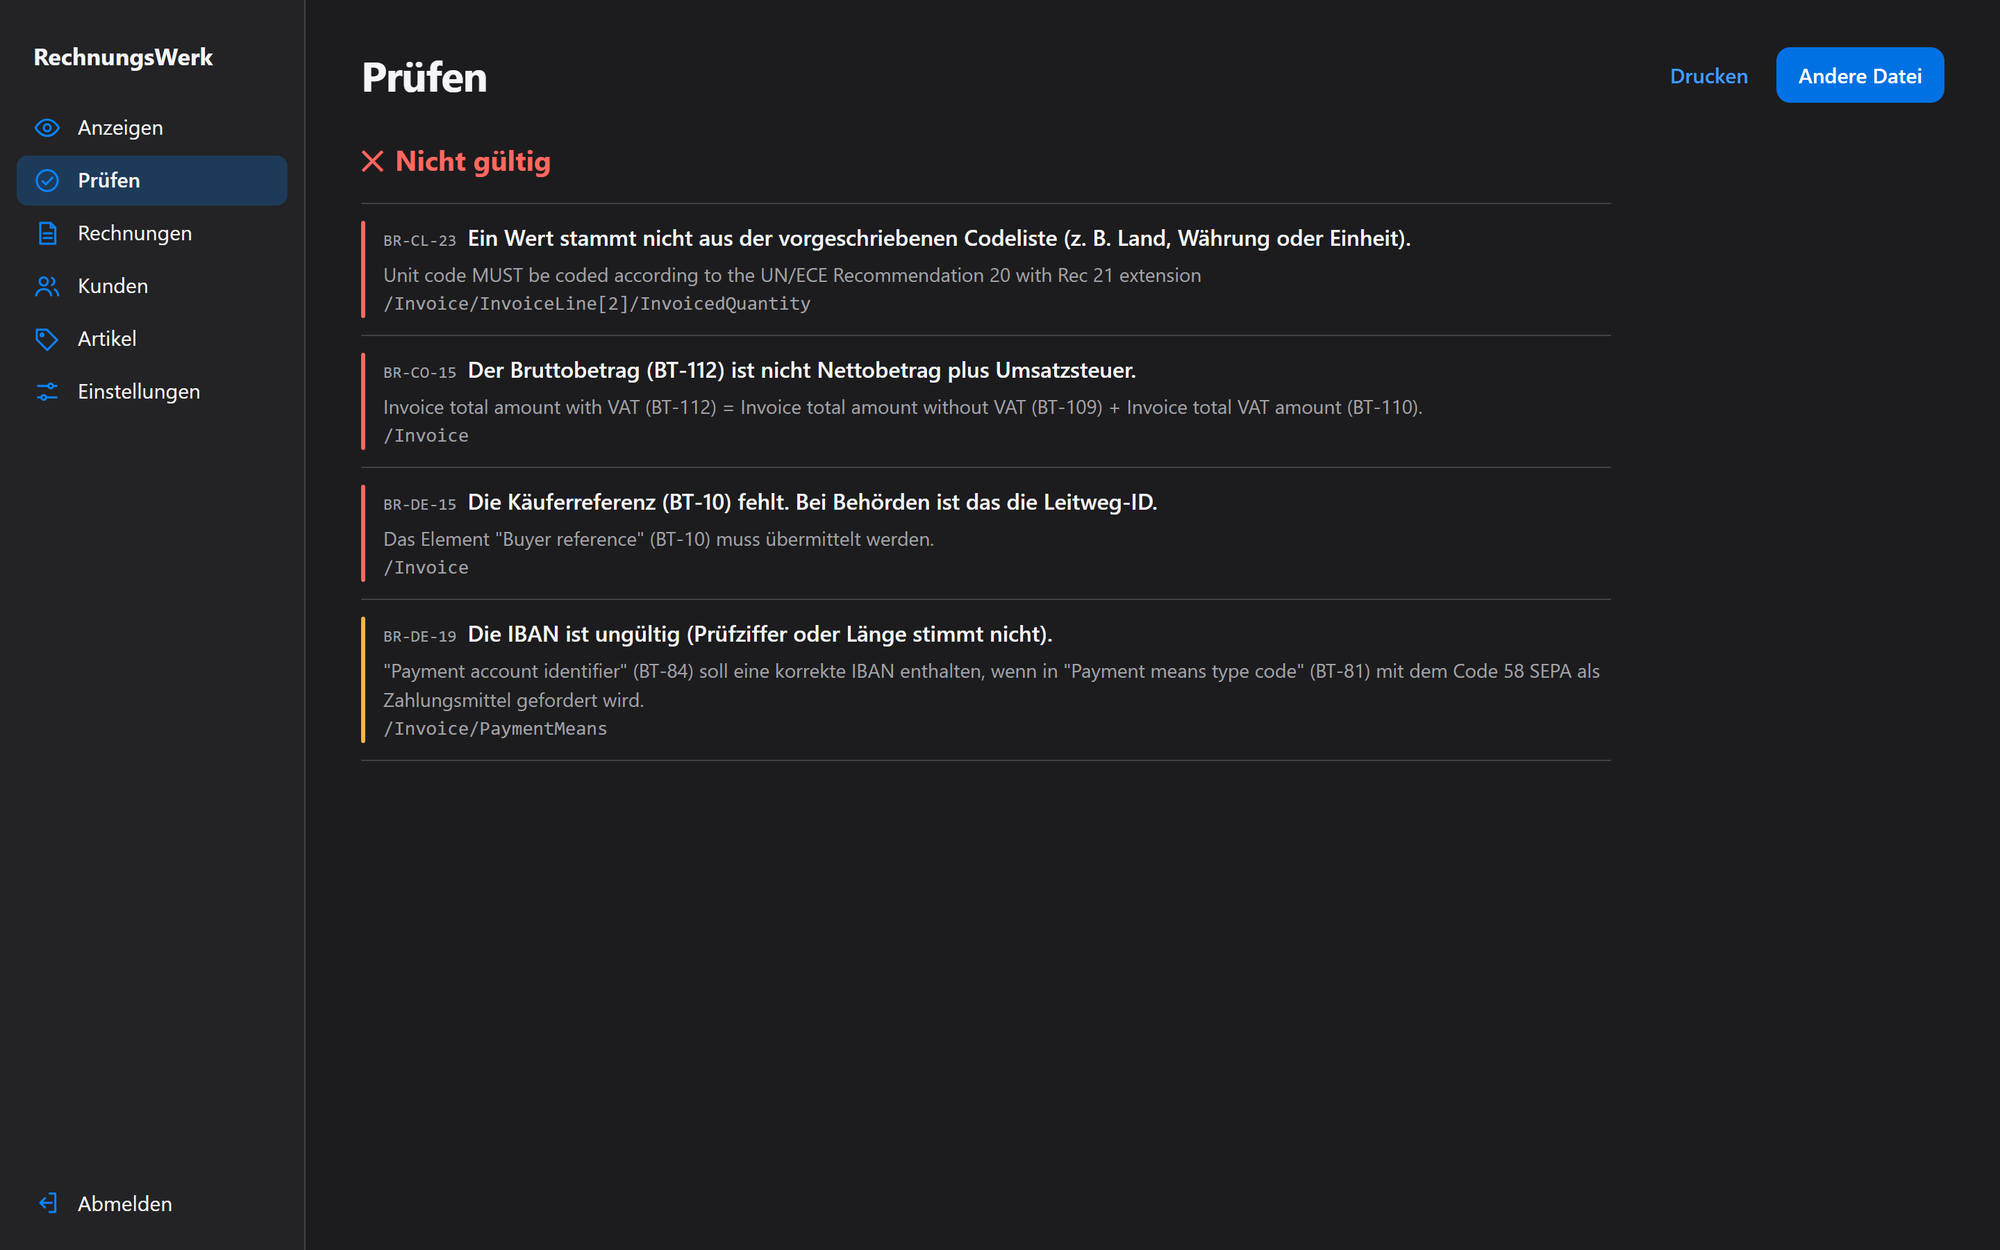
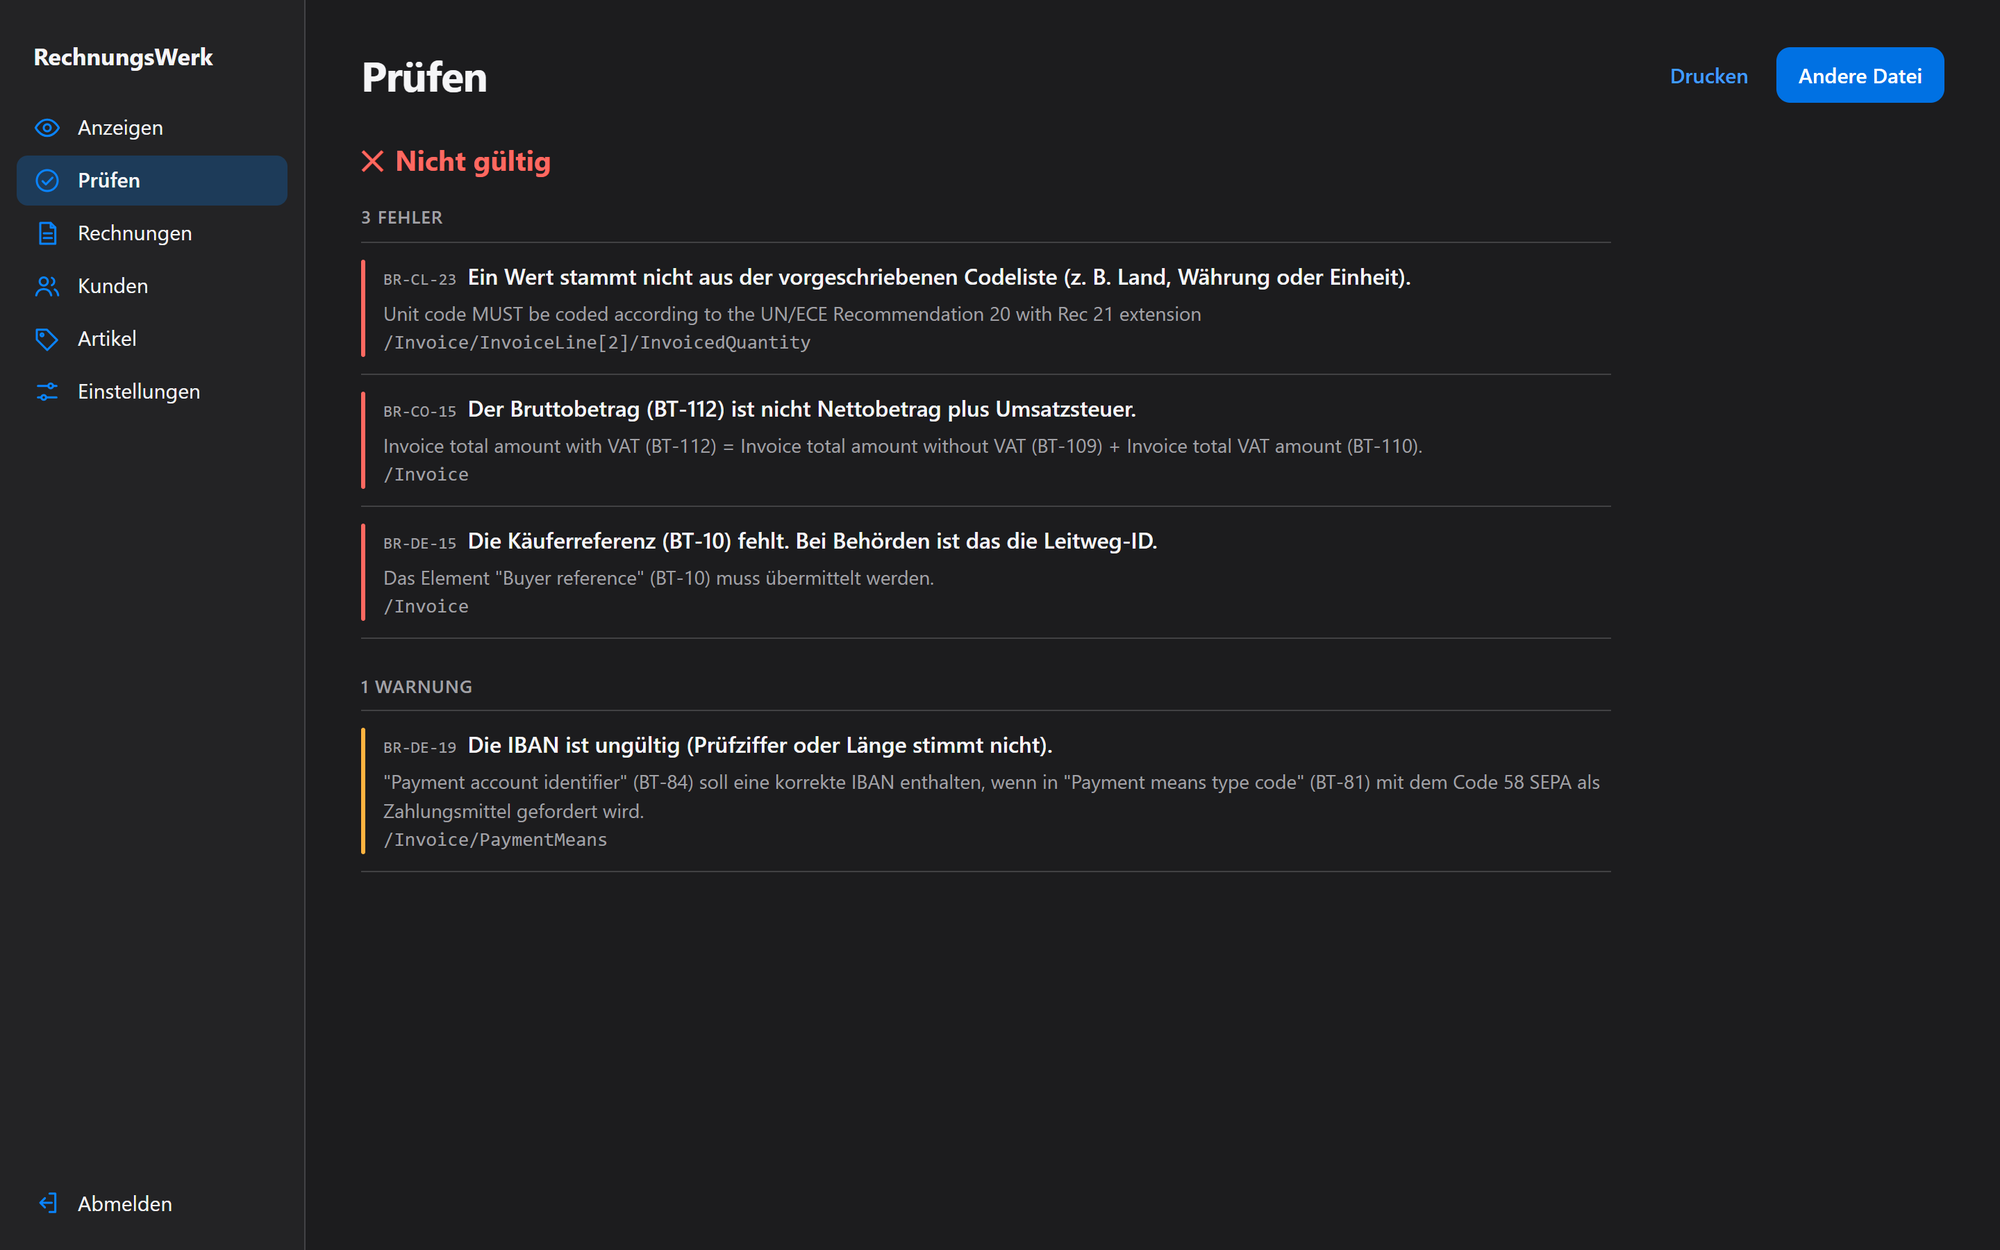
Group validation findings by severity
Errors, warnings and hints in the validation report were told apart
only by the colour of their bar. The report now lists them in groups
headed "3 Fehler", "1 Warnung" or "2 Hinweise", so the severity can
also be read as text. On the invoice page the group headings sit one
level below the format heading. The screenshots of the report are
updated.

Changed region(s): [[0.186, 0.156, 0.806, 0.6864], [0.682, 0.624, 0.775, 0.6552]]

diff --git a/src/RechnungsWerk.Web/wwwroot/app.css b/src/RechnungsWerk.Web/wwwroot/app.css
@@ -907,7 +907,8 @@ input[type="radio"] {
 }
 
 .party h3,
-.invoice-section h3 {
+.invoice-section h3,
+.findings-title {
     margin-bottom: var(--space-2);
     font-size: var(--text-sm);
     font-weight: 600;
@@ -1313,6 +1314,10 @@ input[type="radio"] {
     .finding,
     .party {
         break-inside: avoid;
+    }
+
+    .findings-title {
+        break-after: avoid;
     }
 
     a {

diff --git a/tests/RechnungsWerk.Tests/Web/FindingGroupTests.cs b/tests/RechnungsWerk.Tests/Web/FindingGroupTests.cs
@@ -1,0 +1,37 @@
+using RechnungsWerk.Core.Validation;
+using RechnungsWerk.Web.Infrastructure;
+
+namespace RechnungsWerk.Tests.Web;
+
+public sealed class FindingGroupTests
+{
+    [Theory]
+    [InlineData(ValidationLevel.Error, 1, "1 Fehler")]
+    [InlineData(ValidationLevel.Error, 3, "3 Fehler")]
+    [InlineData(ValidationLevel.Warning, 1, "1 Warnung")]
+    [InlineData(ValidationLevel.Warning, 2, "2 Warnungen")]
+    [InlineData(ValidationLevel.Information, 1, "1 Hinweis")]
+    [InlineData(ValidationLevel.Information, 4, "4 Hinweise")]
+    public void Title_names_level_and_count(ValidationLevel level, int count, string expected)
+    {
+        Assert.Equal(expected, FindingGroup.TitleFor(level, count));
+    }
+
+    [Fact]
+    public void Groups_list_errors_first_then_warnings_then_hints()
+    {
+        static ValidationMessage Message(ValidationLevel level, string rule) => new(level, rule, "", null, null, "");
+        var report = new ValidationReport
+        {
+            IsAcceptable = false,
+            Messages = [Message(ValidationLevel.Warning, "W1"), Message(ValidationLevel.Information, "I1"), Message(ValidationLevel.Error, "E1"),
+                Message(ValidationLevel.Warning, "W2")],
+        };
+
+        var groups = FindingGroup.Of(report);
+
+        Assert.Equal([ValidationLevel.Error, ValidationLevel.Warning, ValidationLevel.Information], groups.Select(g => g.Level));
+        Assert.Equal(["W1", "W2"], groups[1].Messages.Select(m => m.RuleId));
+        Assert.Equal("2 Warnungen", groups[1].Title);
+    }
+}

diff --git a/src/RechnungsWerk.Web/Infrastructure/FindingGroup.cs b/src/RechnungsWerk.Web/Infrastructure/FindingGroup.cs
@@ -1,0 +1,21 @@
+using RechnungsWerk.Core.Validation;
+
+namespace RechnungsWerk.Web.Infrastructure;
+
+/// <summary>Funde eines Prüfberichts mit derselben Schwere – im Bericht unter einer Überschrift wie „3 Fehler“.</summary>
+public sealed record FindingGroup(ValidationLevel Level, IReadOnlyList<ValidationMessage> Messages)
+{
+    /// <summary>Die Schwere steht im Text und nicht nur in der Farbe des Randes.</summary>
+    public string Title => TitleFor(Level, Messages.Count);
+
+    /// <summary>Erst Fehler, dann Warnungen, dann Hinweise; leere Gruppen gibt es nicht.</summary>
+    public static IReadOnlyList<FindingGroup> Of(ValidationReport report) =>
+        report.Messages.GroupBy(m => m.Level).OrderBy(g => g.Key).Select(g => new FindingGroup(g.Key, g.ToList())).ToList();
+
+    public static string TitleFor(ValidationLevel level, int count) => level switch
+    {
+        ValidationLevel.Error => $"{count} Fehler",
+        ValidationLevel.Warning => count == 1 ? "1 Warnung" : $"{count} Warnungen",
+        _ => count == 1 ? "1 Hinweis" : $"{count} Hinweise",
+    };
+}

diff --git a/README.md b/README.md
@@ -43,7 +43,7 @@ Die erzeugten Dateien werden in den automatischen Tests mit dem KoSIT-Validator 
     <td width="50%">
       <picture>
         <source media="(prefers-color-scheme: dark)" srcset="docs/screenshots/pruefen-dark.png">
-        <img src="docs/screenshots/pruefen-light.png" alt="Prüfen: Prüfbericht des KoSIT-Validators für eine fehlerhafte Rechnung – nicht gültig, jeder Fund mit Regel-ID wie BR-DE-15, deutscher Erklärung und Fundstelle">
+        <img src="docs/screenshots/pruefen-light.png" alt="Prüfen: Prüfbericht des KoSIT-Validators für eine fehlerhafte Rechnung – nicht gültig, Funde nach Fehlern und Warnungen gruppiert, jeweils mit Regel-ID wie BR-DE-15, deutscher Erklärung und Fundstelle">
       </picture>
     </td>
   </tr>
